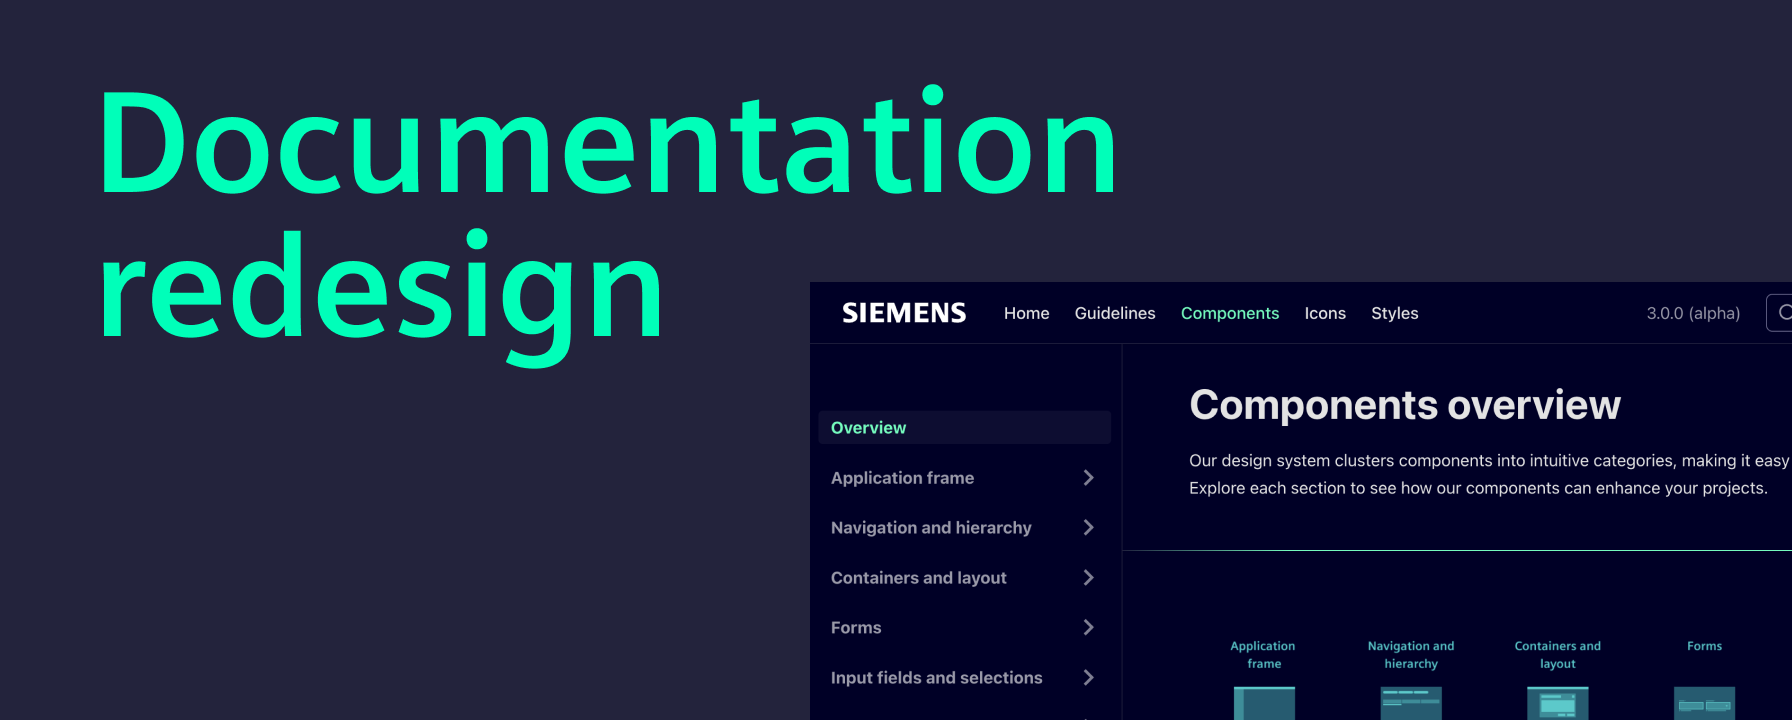
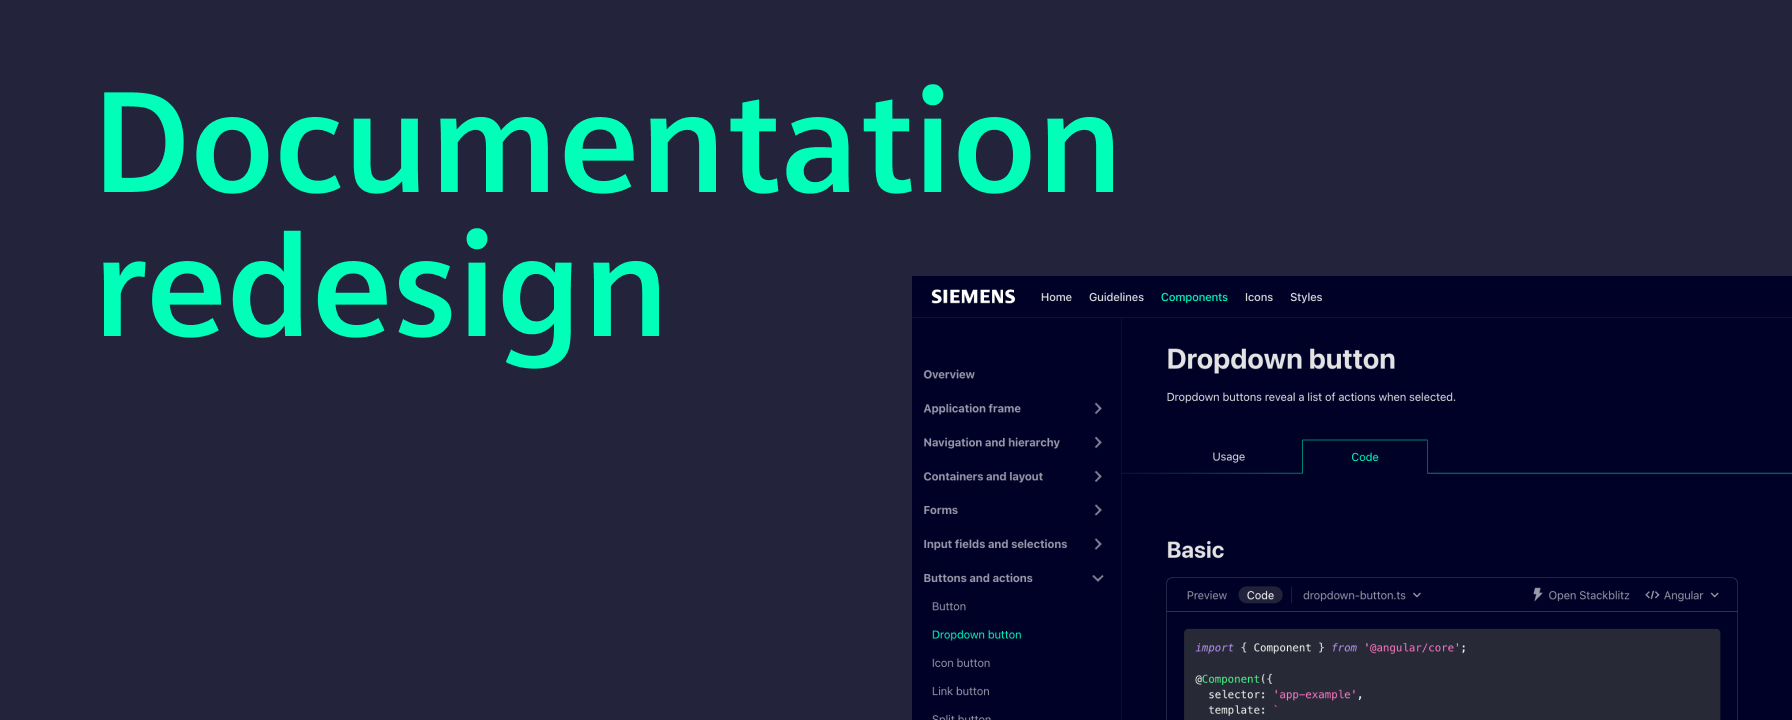
minor fixes

diff --git a/packages/documentation/blog/2025-04-03-alpha-release-3/index.md b/packages/documentation/blog/2025-04-03-alpha-release-3/index.md
@@ -4,15 +4,15 @@ authors: [danielleroux]
 tags: [release]
 ---
 
-# Release 3.0.0 alpha
+# Release V3.0.0-alpha
 
 ![banner](./intro.png)
 
-Are you ready to be among the first to experience 3.0.0?
+Are you ready to be among the first to experience V3.0.0?
 
 We are seeking early adopters to test our alpha release and provide valuable feedback.
 
-As we prepare for the official launch of Industrial Experience 3.0.0, your insights will help us refine the code, documentation, and migration guide.
+As we prepare for the official launch of Industrial Experience V3.0.0, your insights will help us refine the code, documentation, and migration guide.
 
 Your participation not only benefits us but also the entire community eagerly awaiting this major update.
 
@@ -95,7 +95,7 @@ Input elements have been updated to improve user experience by preventing requir
 **Key changes:**
 
 - **Input elements affected:** ix-input, ix-number-input, ix-date-input, ix-select, and ix-textarea will no longer show required validation errors unless there has been user interaction.
-- **Programmatic validation:** If the class ix-invalid is applied programmatically, an error message will still be shown even without user interaction.
+- **Programmatic validation:** If the class `ix-invalid` is applied programmatically, an error message will still be shown even without user interaction.
 
 # Date picker enhancements
 
@@ -103,29 +103,22 @@ Input elements have been updated to improve user experience by preventing requir
 
 Week numbers are now hidden by default in several date-related components, enhancing the user interface and simplifying the display.
 
-**Key changes:**
-
-**ix-date-picker**: Week numbers are hidden by default. To show them, set `showWeekNumbers` to true.
-**ix-datetime-picker**: Week numbers are hidden by default. To show them, set `showWeekNumbers` to true.
-**ix-date-dropdown**: Week numbers are hidden by default. To show them, set `showWeekNumbers` to true.
-**ix-date-input**: Week numbers are hidden by default. To show them, set `showWeekNumbers` to true.
-
 # Documentation redesign
 
 ![documentation redesign](./documentation.png)
 
-In response to valuable user feedback, we are unveiling the redesigned documentation for our design system. Last year, over 30 users participated in a comprehensive survey, providing insights that have shaped this transformation. Our goal is to enhance usability and accessibility, ensuring that our documentation meets the needs of our diverse user base.
+In response to valuable user feedback, we are unveiling the redesigned documentation for our design system. Last year, we sent out a comprehensive survey to our users. They provided insights that have shaped this transformation. Our goal is to enhance usability and accessibility, ensuring that our documentation meets the needs of our diverse user base.
 
-**Key changes**
+**Key changes:**
 
 - **Horizontal navigation in the header:** One of the most significant changes is the introduction of horizontal navigation in the header. Previously, users had to navigate deep within the main navigation to find components and icons, which were the most sought-after elements. The new horizontal navigation prominently features main categories, allowing users to access these critical sections quickly and efficiently.
 - **Quick access to essential resources:** We have added quick access links to the header. Users can now effortlessly reach the starter app, support resources, and our GitHub repository. This change ensures that essential tools and information are always within easy reach, reducing the time spent searching for these resources.
 - **Versioning of documentation:** We understand the importance of maintaining access to previous versions of our documentation. Users can now switch between different versions, making it easier to reference older documentation and track changes over time. This feature is particularly useful for teams working with legacy systems or those who need to compare updates.
 - **Clustering components:** In the past, components were listed alphabetically, which could be cumbersome for users looking for related items. We have now clustered components based on their functionality and usage. This logical grouping helps users find what they need more intuitively, enhancing the overall efficiency of the documentation.
-- **Preview and code snippet:** For the component pages, we have integrated the preview and code snippet sections. This allows users to easily switch between viewing a component in different themes and accessing the corresponding code for various frameworks. Here you can see the example live:
+- **Preview and code snippet:** For the component pages, we have integrated the preview and code snippet sections. This allows users to easily switch between viewing a component in different themes and accessing the corresponding code for various frameworks.
 - **Property table:** Component and style pages now use the same property table for a better overview and consistent behavior.
 
-The redesign of our documentation is a direct result of listening to our users and understanding their needs. We believe these changes will significantly improve the user experience, making our design system more accessible and easier to navigate. We are committed to continuous improvement and have exciting upcoming topics already planned. We welcome any further feedback to ensure our documentation remains a valuable resource for all users.
+The redesign of our documentation is a direct result of listening to our users and understanding their needs. We believe these changes will significantly improve the user experience, making our design system easier to navigate. We are committed to continuous improvement and have exciting upcoming topics already planned. We welcome any further feedback to ensure our documentation remains a valuable resource for all users.
 
 Please reach out to us at [team.ix.industry@siemens.com](mailto:team.ix.industry@siemens.com) and tell us about your migration experience.
 If you encounter any issues, we are here to support you every step of the way.
